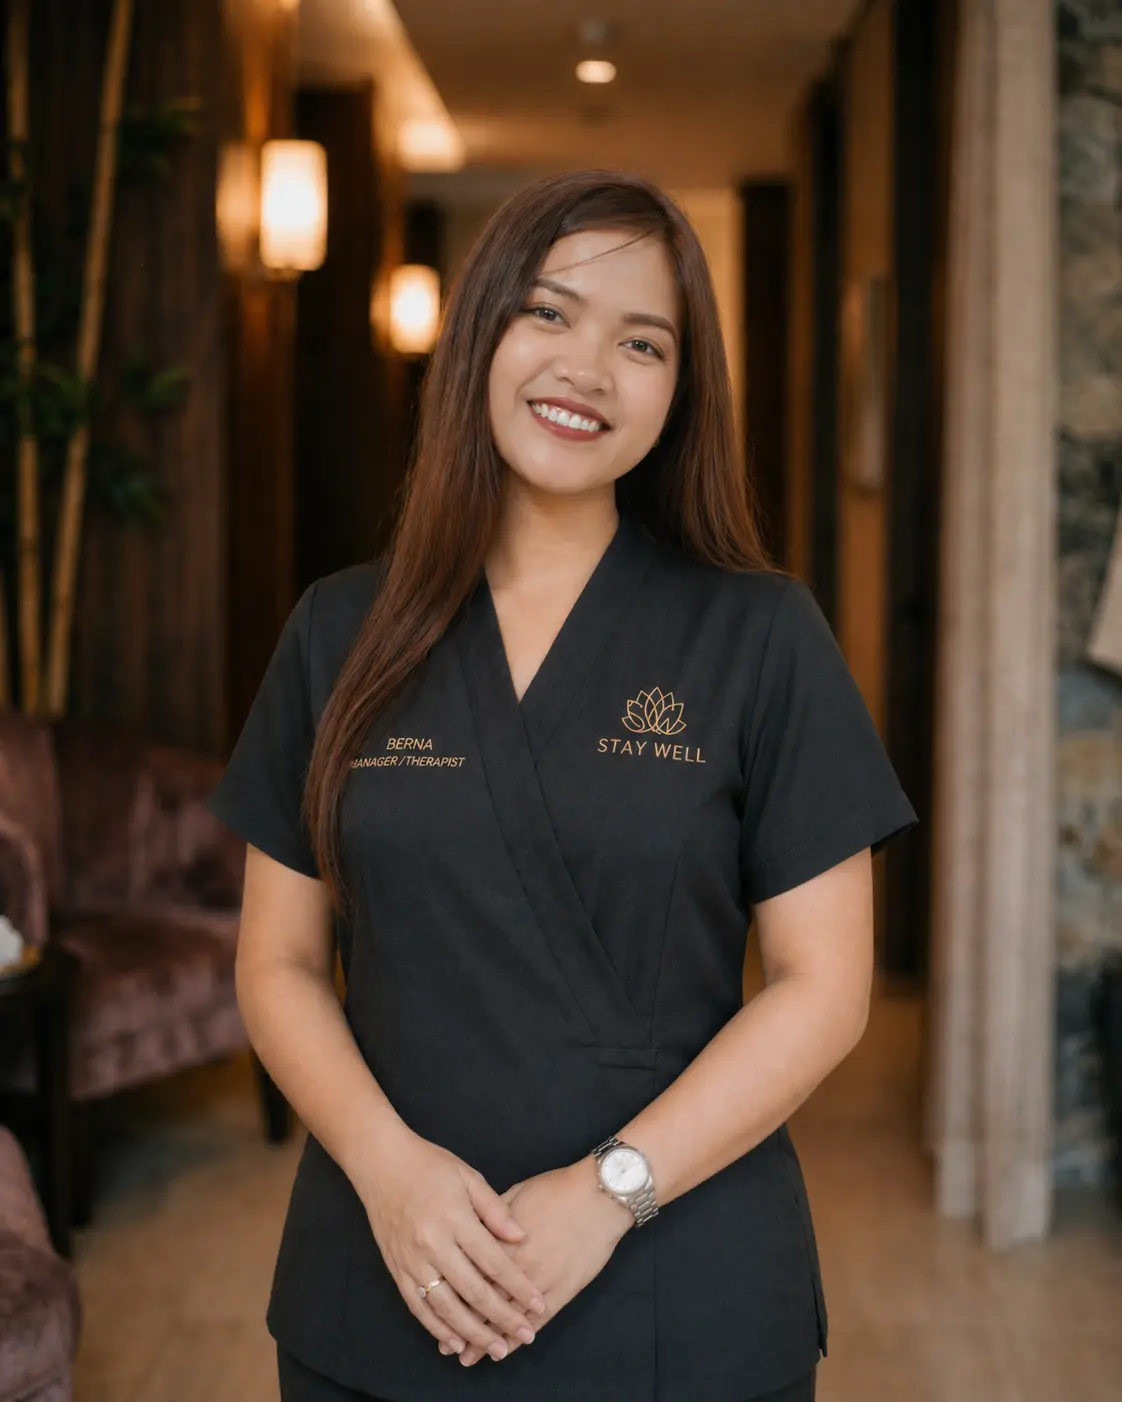
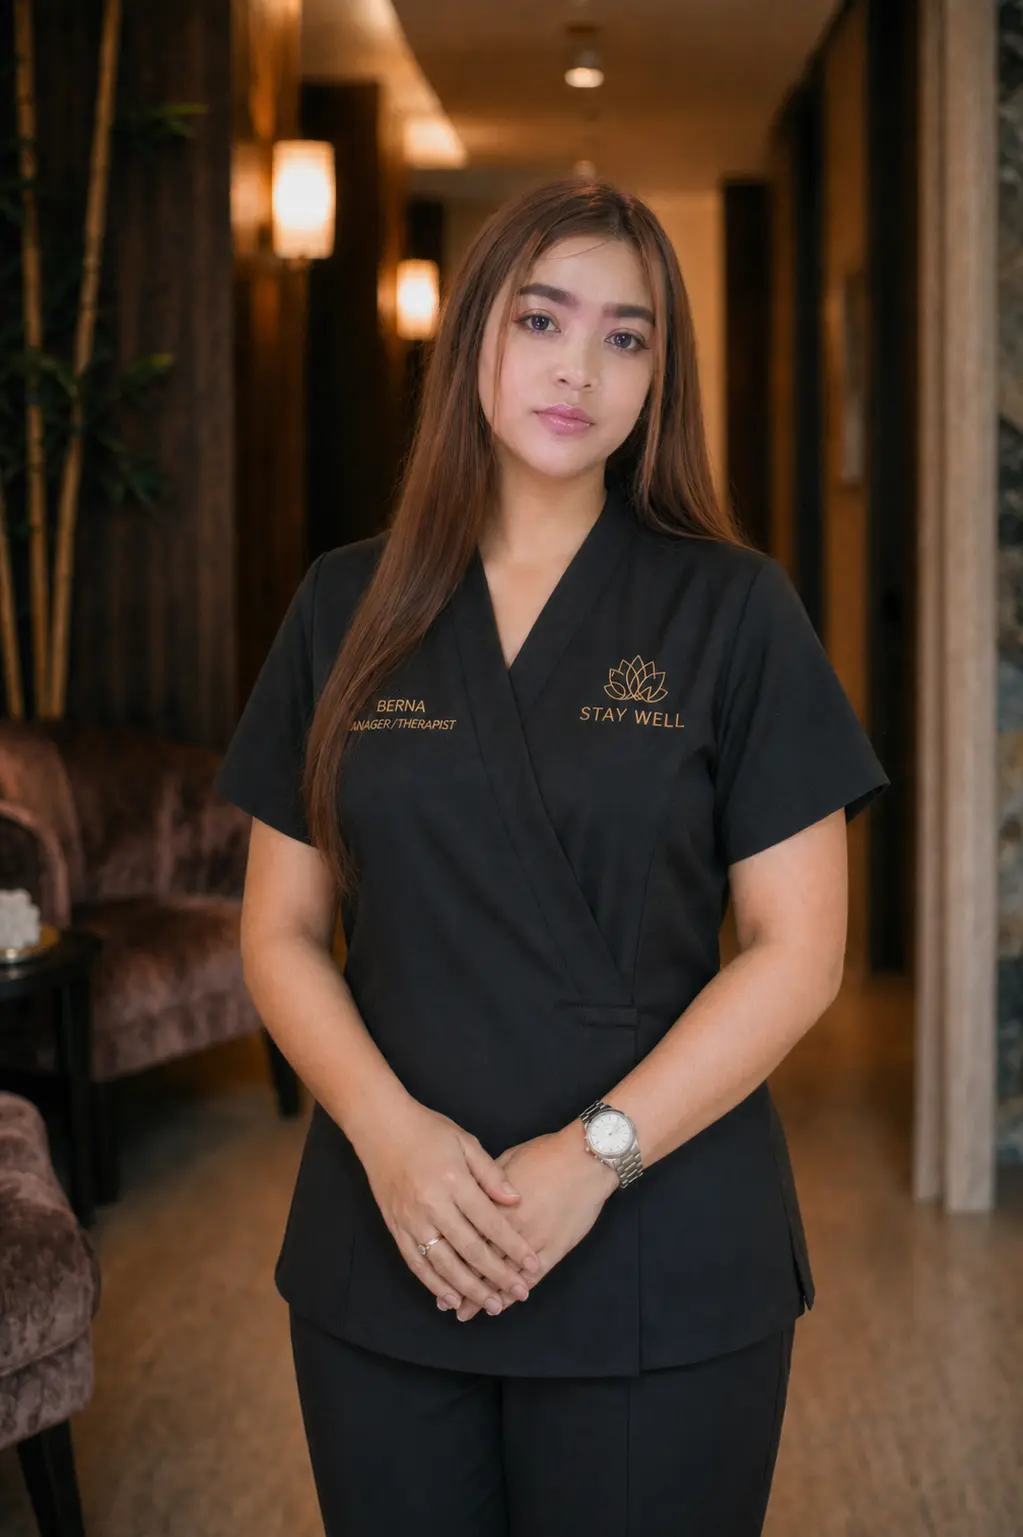
feat: update pricing and staff (Nadia to Andrea)

diff --git a/index.html b/index.html
@@ -95,7 +95,7 @@
       "@id": "https://staywellmassageph.com",
       "url": "https://staywellmassageph.com",
       "telephone": "+639469983624",
-      "priceRange": "₱700-₱1600",
+      "priceRange": "₱800-₱1600",
       "address": {
         "@type": "PostalAddress",
         "streetAddress": "St. Maria Village, Teodoro St. cor Tiñio St, 1st St, Balibago",
@@ -292,7 +292,7 @@
                                 <span>Elite Hot Stone</span>
                             </li>
                         </ul>
-                        <p style="font-size: 0.75rem; color: var(--color-gold-text); margin-top: 1.5rem; letter-spacing: 0.05em; font-weight: 500;">Rates starting at ₱700</p>
+                        <p style="font-size: 0.75rem; color: var(--color-gold-text); margin-top: 1.5rem; letter-spacing: 0.05em; font-weight: 500;">Rates starting at ₱800</p>
                         <p style="font-size: 0.7rem; opacity: 0.6; margin-top: 0.5rem; font-style: italic;">* final rates based on location and service duration.</p>
                     </div>
 
@@ -303,9 +303,9 @@
                             <!-- Tier 1: Essential -->
                             <div class="treatment-card tier-essential fade-up">
                                 <div class="option-icon" style="margin: 0 auto 1.5rem; color: var(--color-gold);">
-                                    <svg viewBox="0 0 24 24" fill="none" stroke="currentColor" stroke-width="1.5" stroke-linecap="round" stroke-linejoin="round" style="width: 40px; height: 40px;" role="img" aria-label="Essential Wellness Icon"><link rel="icon" type="image/png" href="favicon.png">`n    <link rel="apple-touch-icon" href="apple-touch-icon.png">`n    <title>Essential Wellness</title><path d="M11 20A7 7 0 0 1 9.8 6.1C15.5 5 17 4.48 19 2c1 2 2 4.18 2 8a8 8 0 0 1-8 8Z"/><path d="M13 21c-3 0-7-3.9-8-6"/><path d="M5 14c0 3 3 7 8 7"/></svg>
+                                    <svg viewBox="0 0 24 24" fill="none" stroke="currentColor" stroke-width="1.5" stroke-linecap="round" stroke-linejoin="round" style="width: 40px; height: 40px;" role="img" aria-label="Essential Wellness Icon"><path d="M11 20A7 7 0 0 1 9.8 6.1C15.5 5 17 4.48 19 2c1 2 2 4.18 2 8a8 8 0 0 1-8 8Z"/><path d="M13 21c-3 0-7-3.9-8-6"/><path d="M5 14c0 3 3 7 8 7"/></svg>
                                 </div>
-                                <span class="price">From ₱700 / 60 Mins</span>
+                                <span class="price">₱800 / 60 Mins</span>
                                 <h3>Essential Wellness</h3>
                                 <p>The perfect weekly reset. Ideal for local residents in Balibago or Friendship seeking a professional standard.</p>
                             </div>
@@ -314,9 +314,9 @@
                             <div class="treatment-card tier-signature highlight-card fade-up">
                                 <div class="best-value-badge">Best Seller</div>
                                 <div class="option-icon" style="margin: 0 auto 1.5rem; color: var(--color-gold);">
-                                    <svg viewBox="0 0 24 24" fill="none" stroke="currentColor" stroke-width="1.5" stroke-linecap="round" stroke-linejoin="round" style="width: 40px; height: 40px;" role="img" aria-label="Signature Recovery Icon"><link rel="icon" type="image/png" href="favicon.png">`n    <link rel="apple-touch-icon" href="apple-touch-icon.png">`n    <title>Signature Recovery</title><path d="M12 22s8-4 8-10V5l-8-3-8 3v7c0 6 8 10 8 10z"/></svg>
+                                    <svg viewBox="0 0 24 24" fill="none" stroke="currentColor" stroke-width="1.5" stroke-linecap="round" stroke-linejoin="round" style="width: 40px; height: 40px;" role="img" aria-label="Signature Recovery Icon"><path d="M12 22s8-4 8-10V5l-8-3-8 3v7c0 6 8 10 8 10z"/></svg>
                                 </div>
-                                <span class="price">From ₱900 / 90 Mins</span>
+                                <span class="price">₱1,200 / 90 Mins</span>
                                 <h3>Signature Recovery</h3>
                                 <p>Our #1 choice for travelers. Includes 90 Mins + Ventosa to eliminate flight fatigue and muscle stiffness.</p>
                             </div>
@@ -324,9 +324,9 @@
                             <!-- Tier 3: Elite -->
                             <div class="treatment-card tier-elite fade-up">
                                 <div class="option-icon" style="margin: 0 auto 1.5rem; color: var(--color-gold);">
-                                    <svg viewBox="0 0 24 24" fill="none" stroke="currentColor" stroke-width="1.5" stroke-linecap="round" stroke-linejoin="round" style="width: 40px; height: 40px;" role="img" aria-label="Elite Sanctuary Icon"><link rel="icon" type="image/png" href="favicon.png">`n    <link rel="apple-touch-icon" href="apple-touch-icon.png">`n    <title>Elite Sanctuary</title><polygon points="12 2 15.09 8.26 22 9.27 17 14.14 18.18 21.02 12 17.77 5.82 21.02 7 14.14 2 9.27 8.91 8.26 12 2"/></svg>
+                                    <svg viewBox="0 0 24 24" fill="none" stroke="currentColor" stroke-width="1.5" stroke-linecap="round" stroke-linejoin="round" style="width: 40px; height: 40px;" role="img" aria-label="Elite Sanctuary Icon"><polygon points="12 2 15.09 8.26 22 9.27 17 14.14 18.18 21.02 12 17.77 5.82 21.02 7 14.14 2 9.27 8.91 8.26 12 2"/></svg>
                                 </div>
-                                <span class="price">From ₱1,600 / 120 Mins</span>
+                                <span class="price">₱1,600 / 120 Mins</span>
                                 <h3>Elite Sanctuary</h3>
                                 <p>120 Mins + Hot Stone + Ventosa. The ultimate bespoke journey.</p>
                             </div>
@@ -381,13 +381,13 @@
                             </div>
                         </div>
                     </div>
-                    <!-- Nadia -->
+                    <!-- Andrea -->
                     <div class="therapist-card-premium fade-up">
                         <div class="therapist-image">
-                            <img src="nadia-therapist.jpg" alt="Ms. Nadia - Senior Therapist" width="400" height="500" loading="lazy">
+                            <img src="andrea-therapist.webp" alt="Ms. Andrea - Senior Therapist" width="400" height="500" loading="lazy">
                             <div class="therapist-overlay">
                                 <div class="therapist-info">
-                                    <h3>Ms. Nadia</h3>
+                                    <h3>Ms. Andrea</h3>
                                     <span class="role">Senior Therapist</span>
                                 </div>
                             </div>
@@ -553,21 +553,21 @@
                                         <svg viewBox="0 0 24 24" fill="none" stroke="currentColor" stroke-width="1.5" stroke-linecap="round" stroke-linejoin="round"><path d="M11 20A7 7 0 0 1 9.8 6.1C15.5 5 17 4.48 19 2c1 2 2 4.18 2 8a8 8 0 0 1-8 8Z"/><path d="M13 21c-3 0-7-3.9-8-6"/><path d="M5 14c0 3 3 7 8 7"/></svg>
                                     </div>
                                     <h4>Essential</h4>
-                                    <p>From ₱700</p>
+                                    <p>₱800 / 60min</p>
                                 </div>
                                 <div class="option-card tier-signature" data-value="Signature Recovery" tabindex="0" role="radio" aria-checked="false">
                                     <div class="option-icon">
                                         <svg viewBox="0 0 24 24" fill="none" stroke="currentColor" stroke-width="1.5" stroke-linecap="round" stroke-linejoin="round"><path d="M12 22s8-4 8-10V5l-8-3-8 3v7c0 6 8 10 8 10z"/></svg>
                                     </div>
                                     <h4>Signature</h4>
-                                    <p>From ₱900</p>
+                                    <p>₱1,200 / 90 mins</p>
                                 </div>
                                 <div class="option-card tier-elite" data-value="Elite Sanctuary" tabindex="0" role="radio" aria-checked="false">
                                     <div class="option-icon">
                                         <svg viewBox="0 0 24 24" fill="none" stroke="currentColor" stroke-width="1.5" stroke-linecap="round" stroke-linejoin="round"><polygon points="12 2 15.09 8.26 22 9.27 17 14.14 18.18 21.02 12 17.77 5.82 21.02 7 14.14 2 9.27 8.91 8.26 12 2"/></svg>
                                     </div>
                                     <h4>Elite</h4>
-                                    <p>From ₱1,600</p>
+                                    <p>₱1,600 / 120min</p>
                                 </div>
                             </div>
                             <div class="option-group-error">Please select a sanctuary tier to continue.</div>
